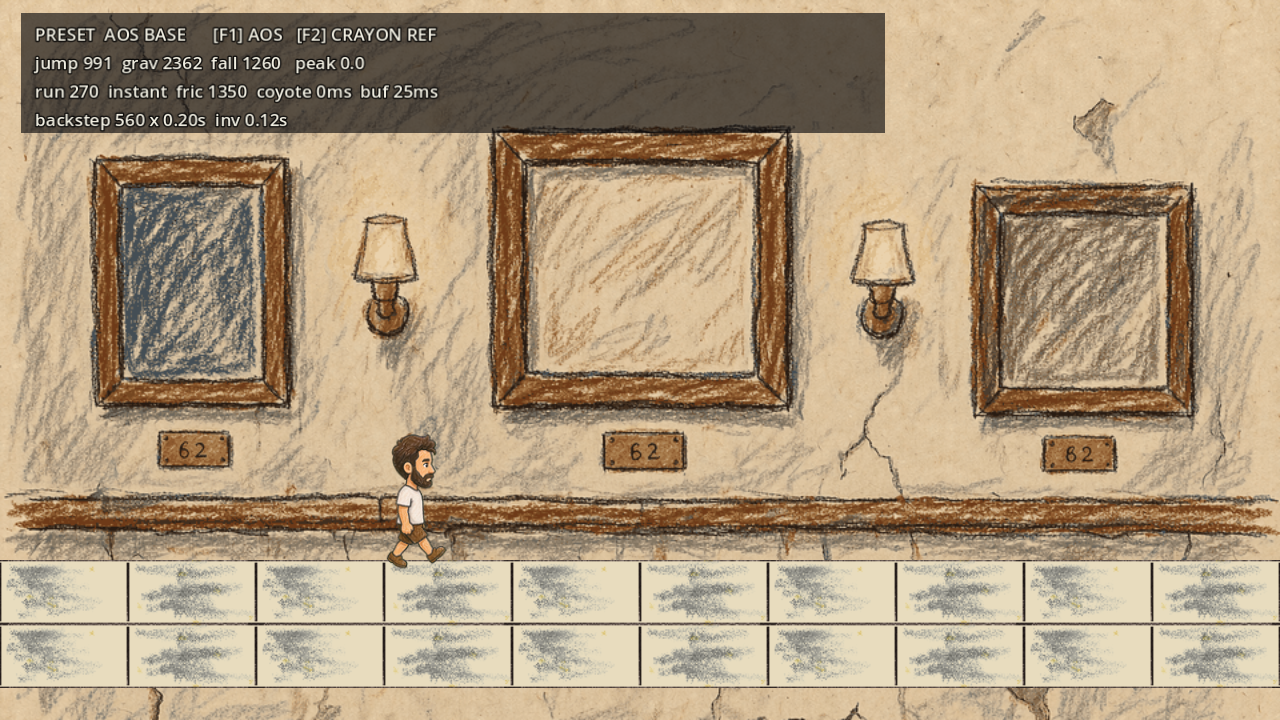
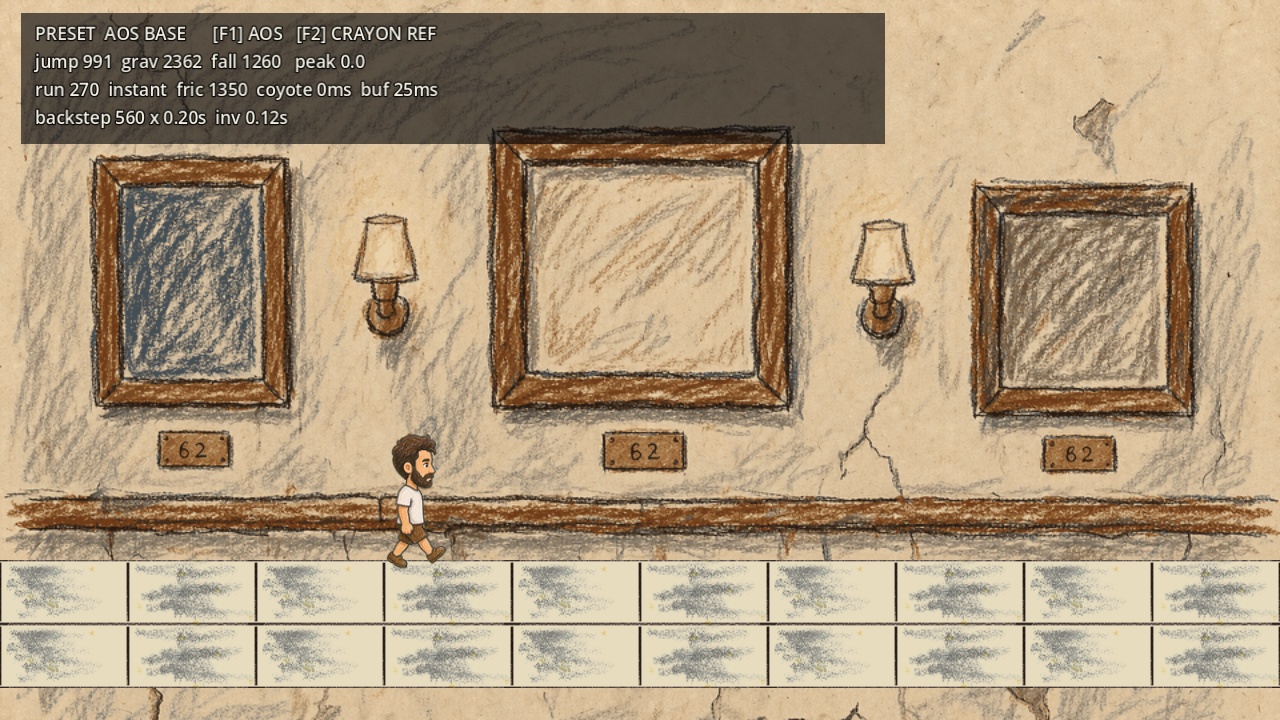
build(godot): 引擎版本定版 4.7.2-stable，从 4.4.1 升级并用测试把版本锁死
白哥：「Godot 版本要定下来」。之前是"规范 4.7 / 工程 4.4"的双口径，
每条尺寸结论都要额外标注在哪个版本有效，成本持续、收益为零。

定版：Godot 4.7.2-stable（build ed1daf0bf），GL Compatibility，120Hz 物理，
linear 过滤，960×540。project.godot 的 config/features 改 4.4 → 4.7。

五条理由（写进 docs/gdd/07 §9.1）
1 与美术规范验证环境对齐（ART_GUIDE 的来源工程就是 4.7.2，G1–G5 全在 4.7.2 验的）
2 4.4 已 EOL：4.7.2 是当前 stable 最新（2026-08-18，full support），
  4.4.1 停在 2025-03，4.8 还在 beta 4
3 4.7 有 VirtualJoystick，4.4 没有 —— 本机 ClassDB 实测。这条直接对应决定 #4
  手机触屏优先：死区/多点触控/缩放/滑出边界不必自己调，省掉的是一整类手机才复现的 bug
4 实测零回归
5 4.7 的 Android 导出工具链是稳定的；4.4 那套 AGP/NDK 已落后

升级实测（§9.2，全过）
- feel_smoke 203.9 / 270.0 / 56.1 px —— 与 4.4.1 逐位相同
- combat_smoke（战斗组件 / 存档 / 坏档拒绝）、preset_key（F1/F2）全 PASS
- 沸腾线 shader 三条判据 PASS：平坦区 0.28 < 1.0、边缘 3.80 > 1.5、边缘纯黑 0%
- 窗口渲染截图 1280×720，角色位置 (317.0, 419.9253) 与 4.4.1 完全相同
- 同一帧截图逐像素比对：差 >2/255 的 3.30%，**100% 落在 HUD 面板矩形内**，
  画面其余部分逐像素完全相同（max diff = 0）。差异来自 Label 字形抗锯齿/hinting，
  不是场景或渲染管线。证据：shots/godot_4.4_vs_4.7.png（右栏标了 HUD 框）
- .import 全量重导入，新增 compress/uastc_level、process/channel_remap 等字段，
  纯新增无行为变化（compress/mode=0 / mipmaps off / fix_alpha_border 均未变）

新增 tests/env_check.gd（8 项断言）
- 断言 major / minor / build 前缀 / 120Hz / gl_compatibility / linear / 960×540
- **patch 升级也会红**，这是刻意的：升级引擎是个"决定"，不该因为随手装了个新版就发生
- 反向验证过：故意用 4.4.1 跑，minor 与 build 两项红，并提示正确命令

改
- docs/gdd/07 §9 重写为「版本定版 + 跨引擎口径」，9.1 定版/理由/不选别的/守卫，
  9.2 升级实测表，9.3 原跨引擎表（把"来源 4.7 本项目 4.4"改为已对齐，
  但保留"G1–G5 不能直接搬"——原因是资产没接进来，与引擎无关）
- godot/README：标题 4.4 → 4.7.2，加定版横幅，命令全部换 4.7.2，跑测试第 0 步加 env_check
[…]

Changed region(s): [[0.0, 0.0306, 0.6875, 0.2139]]

diff --git a/docs/gdd/07_MVP与里程碑.md b/docs/gdd/07_MVP与里程碑.md
@@ -114,8 +114,9 @@
 **一张都没接**。所以美术缺口不是"0 张"，是**接入 41 张 + 重做若干张**两件事。
 
 **为什么 G0–G5 全过也救不了这个 0**：那套门禁验的是"**资产本身合格**"（风格、尺寸、
-抠图边缘），而且是在**来源工程（Godot 4.7）**里验的。本项目 `godot/` 跑 **4.4**，
-导入设置与缩放链没在本项目复验过。但更根本的原因是——**一张都还没接进渲染**。
+抠图边缘），而且是在**来源工程**里验的。本项目 `godot/` 已于 2026-11-26 升到同一版本
+（4.7.2，`§9.1`），但那套门禁**验的是图和来源工程，不是本项目**——本项目的缩放链、
+节点层级、显示尺寸都还没对着真资产验过。更根本的原因是——**一张都还没接进渲染**。
 门禁过关证明"图是好的"，不等于"图用上了"。
 
 > 这张表与 `art/ART_GUIDE.md §12.3` 不重复：那边判"这张图形式上行不行"（尺寸/形态适配），
@@ -149,7 +150,7 @@
 | 2 | 顶面 / 侧面 / **转角**连接正常（转角不能靠拉伸补） |
 | 3 | 碰撞形状与视觉边缘一致（脚不能陷进石头里，也不能悬空 3px） |
 | 4 | 不同地形组合后**无意外空洞** |
-| 5 | **两端都验**：Canvas 原型按 9×8 与 48px 两种比例看一次，**Godot 4.4 实机**按导入后的实际显示尺寸再看一次，都要保持蜡笔颗粒。糊成色块不算过 |
+| 5 | **Godot 4.7.2 实机为主判据**：按导入后的实际显示尺寸（1/6 显示 ≈ 9×8，以及 48px 整格）各看一次，都要保持蜡笔颗粒，糊成色块不算过。Canvas 基线只对照一次，确认没退化 |
 
 > 第 5 条前后写错过两次：原写"Godot 中缩放"，后来一度改成"只看 Canvas 实机"——
 > **两个都不完整**。2026-11-26 起 **Godot 是唯一开发主线**（`§10`），
@@ -298,7 +299,91 @@ README 说"用哪条命令做"。**
 4. **T-纸团 / T-折痕体**两个验证任务（可与 1、2 并行）
 5. **存档地基**：按 `08 §2` 把写盘点接上，再进 P1——**存档不是收尾工作，越早接越省事**
 
-## 9. 引擎口径：哪些数字跨引擎有效
+## 9. 引擎口径：版本定版 + 哪些数字跨引擎有效
+
+### 9.1 引擎定版（2026-11-26）
+
+| 项 | 定值 | 怎么锁 |
+|---|---|---|
+| 版本 | **Godot 4.7.2-stable** | `project.godot` 的 `config/features` = `"4.7"` |
+| 构建 | `ed1daf0bf` | `tests/env_check.gd` 断言 build 前缀 |
+| 渲染后端 | `gl_compatibility` | 同上（手机兼容性优先，不上 Vulkan） |
+| 物理步长 | **120 Hz** | 同上（手感数字的前提，见下） |
+| 纹理过滤 | **linear**（`1`） | 同上（蜡笔是连续色调，nearest 会出锯齿） |
+| 逻辑分辨率 | 960×540 | 同上 |
+| 本机地址 | `E:/godot/Godot_v4.7.2-stable_win64.exe` | 唯一入口；4.4.1 留着只作历史对照，**不要用来打开工程** |
+
+**升级动作**：4.4.1 → 4.7.2（2026-11-26）。`godot/` 全量重新导入，`.import`
+新增 `compress/uastc_level`、`process/channel_remap/*` 等字段——**纯新增，无行为变化**
+（`compress/mode=0` 无损、`mipmaps/generate=false`、`fix_alpha_border=true` 均未变）。
+
+#### 为什么定 4.7.2
+
+**① 与美术规范的验证环境对齐（主要理由）。** `art/ART_GUIDE.md` 头部写明来源工程是
+**4.7.2-stable**，抠图与尺寸链全部在 4.7.2 复验通过（G1–G5）。留 4.4 就是长期维护
+"规范 4.7 / 工程 4.4"的双口径——每一条尺寸结论都要额外标注"在哪个版本有效"，
+这个成本是持续的，收益为零。
+
+**② 4.4 已经 EOL。** 官方支持策略只维护各分支最新 patch：**4.7.2 是当前 stable 最新版
+（2026-08-18 发布，full support）**，4.4.1 停在 2025-03、已 end-of-life，4.8 还在 beta 4。
+留在 4.4 意味着接下来的 bug 与平台适配修复都拿不到。
+
+**③ 4.7 有 `VirtualJoystick`，4.4 没有——这条直接对应手机触屏优先（决定 #4）。**
+本机实测（`ClassDB.class_exists`）：
+
+| 类 | 4.4.1 | 4.7.2 |
+|---|---|---|
+| `VirtualJoystick` | ❌ 不存在 | ✅ 存在 |
+| `TouchScreenButton` | ✅ | ✅ |
+| `TileMapLayer` | ✅ | ✅ |
+
+自己写摇杆意味着死区、多点触控、随窗口缩放、手指滑出边界这些边界条件全得手调一遍。
+**第一方节点能省掉的不是代码量，是一整类"手机上才复现"的 bug。**
+
+**④ 实测零回归**（`§9.2` 全表）。
+
+**⑤ 导出链。** 手机是首发平台（`§10`），4.7 带稳定的 Android 导出工具链，
+4.4 那套的 AGP / NDK 组合已经落后；留在 4.4 等于给打包埋一个"必须先升级"的坑。
+
+#### 为什么不选别的
+
+| 版本 | 不选的理由 |
+|---|---|
+| 4.4.1（原版本） | 已 EOL；且与美术规范的验证环境差一个 minor（见 ①②） |
+| 4.5 / 4.6 | 停在旧分支没有收益；本机未装，引入第三口径只会多一处要维护 |
+| 4.7.0 / 4.7.1 | 4.7 分支只支持最新 patch，旧 patch 不修 bug；4.7.2 才是该分支的受支持版本 |
+| 4.8 / dev / rc | 4.8 仍在 beta 4，**非 stable**。玩法都还没验证完，不承担引擎不稳定的风险 |
+
+#### 怎么防止被悄悄换掉
+
+`tests/env_check.gd` —— 8 项断言，跑错版本直接红：
+
+```bash
+E:/godot/Godot_v4.7.2-stable_win64_console.exe --headless --path godot --script res://tests/env_check.gd
+```
+
+> 连 **patch 升级也会红**，这是刻意的。升级引擎是个"决定"，不该因为随手装了个新版
+> 就悄悄发生。真要升，改 `EXPECT_BUILD` 并重跑 `feel_smoke` 对账，把新数值写进 `FEEL_TABLE`。
+
+### 9.2 升级实测（4.4.1 → 4.7.2，2026-11-26）
+
+| 项 | 4.4.1 | 4.7.2 | 判定 |
+|---|---|---|---|
+| 满跳高度 | 203.9 px | **203.9 px** | ✅ 一致 |
+| 水平速度 | 270.0 px/s | **270.0 px/s** | ✅ 一致 |
+| 轻点跳 | 56.1 px | **56.1 px** | ✅ 一致 |
+| `feel_smoke` | PASS | **PASS** | ✅ |
+| `combat_smoke`（战斗组件 + 存档 + 坏档拒绝） | PASS | **PASS** | ✅ |
+| `preset_key`（F1/F2 切换） | PASS | **PASS** | ✅ |
+| 沸腾线 shader | 三条判据 PASS | **三条判据 PASS**（平坦区 0.28 < 1.0，边缘 3.80 > 1.5，纯黑 0%） | ✅ |
+| 窗口渲染截图 | 1280×720 | **1280×720，角色位置与速度完全相同** | ✅ |
+
+**唯一可见差异：HUD 字体栅格化。** 同场景同帧数截图对比，`差>2/255` 的像素 3.30%，
+**100% 落在 HUD 面板矩形内；画面其余部分逐像素完全相同（最大差 0）**。
+成因是 Label 字形的抗锯齿/hinting 在两个版本间有差异，不是场景或渲染管线变了。
+证据图：`shots/godot_4.4_vs_4.7.png`（左 4.4 / 中 4.7 / 右差异放大 6 倍）。
+
+### 9.3 哪些数字跨引擎有效
 
 **2026-11-26 定：Godot 是唯一开发主线**（`§10`）。`src/` 冻结为行为基线，
 不再演进。读 §3、§4 的验收条目时对照这张表，别把基线实现细节当设计规格。
@@ -307,7 +392,7 @@ README 说"用哪条命令做"。**
 |---|---|---|
 | **设计规格** | `TILE=48`、单跳 204px、一房 30–50 敌累计、同屏 ≤8、房宽 3–6 屏 | ✅ 逻辑规格，Godot 版必须一致 |
 | **手感数据** | 满跳 203.9px、滞空 917ms、地面 270px/s | ✅ **已在 Godot 标定**。注意初速不同：web `971.3` vs Godot `991.0`，因为积分次序不同（`FEEL_TABLE` 记的是结果，不是初速） |
-| **验收结论** | 美术尺寸链、场景集成 | ⚠ 来源工程 Godot **4.7**，本项目 **4.4**，需在本项目复验一次 |
+| **验收结论** | 美术尺寸链、场景集成 | ✅ 两边现在都是 **4.7.2**（`§9.1`）。但来源工程的 G1–G5 仍不能直接搬——**资产没接进来就谈不上验收**（`§3.1`） |
 | **基线实现** | `localStorage`、`requestAnimationFrame`、`build.py` 内联 | 🔴 只读参照，**不再作为实现依据** |
 | **Godot 实现** | `FileAccess` / `user://`、120Hz 物理步、`move_and_slide`、shader | ✅ **唯一实现口径** |
 
@@ -315,9 +400,9 @@ README 说"用哪条命令做"。**
 存储介质**只保留 Godot 一套**——`user://save.json` + `save.bak.json`。
 原型那套 `localStorage` 只作基线对照，不实现。
 
-> 待办：本项目 `godot/` 是 **4.4**，来源美术规范是 **4.7**。本机两个版本都装了
-> （`E:/godot/` 下有 4.4.1 与 4.7.2）。**升级到 4.7 再复验一次尺寸链**，
-> 比长期维持"规范 4.7 / 工程 4.4"的双口径省事。
+> 版本双口径问题已解决（2026-11-26 升级到 4.7.2，`§9.1`）。**但"复验尺寸链"这件事没做**——
+> 它要等资产真正接进 `godot/` 才有对象可验（`§3.1`，当前"已通过游戏内验收"仍是 0 张）。
+> 届时按 `§3.2.1` 五条 + `§4` 的 A/B/C/D 组一起过。
 
 ---
 
@@ -340,10 +425,10 @@ README 说"用哪条命令做"。**
 
 | 项 | 现状 | 影响 |
 |---|---|---|
-| **测试覆盖** | web **424 项** → godot **36 项**（feel_smoke 7 + combat_smoke 23 + preset_key 6） | 迁移期"改坏了不知道"。这是最大风险 |
+| **测试覆盖** | web **424 项** → godot **44 项**（env_check 8 + feel_smoke 7 + combat_smoke 23 + preset_key 6） | 迁移期"改坏了不知道"。这是最大风险 |
 | **可玩性** | Godot 缺相机 / 多房间 / 攻击接线 / 敌人 | **短期内没有完整可玩的版本** |
 | **截图验收** | headless 是 dummy 渲染器，**出不了图** | 视觉验收必须带窗口跑，不能全自动 |
-| **美术复验** | 尺寸链在来源 4.7 上验的，本项目 4.4 | 要复验一次，或先升级到 4.7 |
+| **美术复验** | 引擎版本已对齐（4.7.2，`§9.1`），但尺寸链**没在接真资产后复验过** | 接资产时按 `§3.2.1` 五条一起验，别跳过 |
 
 ### 10.3 顺序（第 0 步不做完，不要开新系统）
 

diff --git a/godot/README.md b/godot/README.md
@@ -1,9 +1,14 @@
-# Godot 4.4 工程 · 二向箔
+# Godot 4.7.2 工程 · 二向箔
 
 **唯一开发主线**（2026-11-26 白哥定）。所有新功能只写这里。
 `../src/`（web 原型）已**冻结为行为基线**，不再演进——它的 424 项断言与手感标定值是这边的对照物。
 
-> 为什么转过来、迁移顺序、代价（测试覆盖 424 → 36）：`../docs/gdd/07 §10`。
+> **引擎版本已定版：Godot 4.7.2-stable（build `ed1daf0bf`）**，2026-11-26 从 4.4.1 升级。
+> 与美术规范的验证环境（`art/ART_GUIDE.md` 头部）对齐，不再维护"规范 4.7 / 工程 4.4"的双口径。
+> 定版理由、升级实测、拒绝其他版本的理由：`../docs/gdd/07 §9`。跑错版本会被
+> `tests/env_check.gd` 拦住——**别用别的版本打开这个工程**，手感数字会静默失准。
+
+> 为什么转过来、迁移顺序、代价（测试覆盖 424 → 44）：`../docs/gdd/07 §10`。
 
 ## 怎么打开
 
@@ -13,34 +18,37 @@
 E:\IdentityCard\game-soulkeep\godot\
 ```
 
-本机编辑器：`E:\godot\Godot_v4.4.1-stable_win64.exe`
+本机编辑器：`E:\godot\Godot_v4.7.2-stable_win64.exe`
 
 > 仓库根目录没有 `project.godot`，Godot 认不出来——那不是配置问题，是两套工程。
 
 ## 跑
 
 ```bash
+# 0. 先验引擎对不对（2 秒，跑错版本后面全是白测）
+"E:/godot/Godot_v4.7.2-stable_win64_console.exe" --headless --path godot --script res://tests/env_check.gd
+
 # 直接玩
-"E:/godot/Godot_v4.4.1-stable_win64.exe" --path godot
+"E:/godot/Godot_v4.7.2-stable_win64.exe" --path godot
 
 # 手感验证（无头，量跳高/速度，跟 web 基线对账）
-"E:/godot/Godot_v4.4.1-stable_win64_console.exe" --headless --path godot --script res://tests/feel_smoke.gd
+"E:/godot/Godot_v4.7.2-stable_win64_console.exe" --headless --path godot --script res://tests/feel_smoke.gd
 
 # 两套预设实测对照（满跳 / 轻点跳 / 加速帧数 / 翻滚位移）
-"E:/godot/Godot_v4.4.1-stable_win64_console.exe" --headless --path godot --script res://tests/feel_compare.gd
+"E:/godot/Godot_v4.7.2-stable_win64_console.exe" --headless --path godot --script res://tests/feel_compare.gd
 
 # F1 / F2 切换链路是否真的通
-"E:/godot/Godot_v4.4.1-stable_win64_console.exe" --headless --path godot --script res://tests/preset_key.gd
+"E:/godot/Godot_v4.7.2-stable_win64_console.exe" --headless --path godot --script res://tests/preset_key.gd
 
 # 战斗组件 + 存档（无头）
-"E:/godot/Godot_v4.4.1-stable_win64_console.exe" --headless --path godot --script res://tests/combat_smoke.gd
+"E:/godot/Godot_v4.7.2-stable_win64_console.exe" --headless --path godot --script res://tests/combat_smoke.gd
 
 # 沸腾线 shader：先出两帧，再比对（比对脚本是 Python）
-"E:/godot/Godot_v4.4.1-stable_win64_console.exe" --path godot --script res://tests/boil_shot.gd
+"E:/godot/Godot_v4.7.2-stable_win64_console.exe" --path godot --script res://tests/boil_shot.gd
 python godot/tests/boil_check.py
 
 # 渲染快照（必须带窗口，headless 是 dummy 渲染器出不了图）
-"E:/godot/Godot_v4.4.1-stable_win64_console.exe" --path godot --script res://tests/shot.gd
+"E:/godot/Godot_v4.7.2-stable_win64_console.exe" --path godot --script res://tests/shot.gd
 ```
 
 ## 当前完成度
@@ -48,6 +56,7 @@ python godot/tests/boil_check.py
 | 模块 | 状态 |
 |---|---|
 | 工程骨架 / 分辨率 960×540 / 120Hz 物理 | ✅ |
+| **引擎版本定版 4.7.2 + 守卫测试** | ✅ `tests/env_check.gd` 8 项断言，跑错版本直接红 |
 | 玩家：跑 / 摩擦 / 跳 / 二段跳 / 顶点滞空 / 松手切断 | ✅ 手感已标定 |
 | 两套手感预设：F1 aos（定版）/ F2 crayon（参考） | ✅ 可热切换，HUD 显示实测峰值 |
 | 翻滚 / 后跃（aos=后跃、crayon=前滚） | ✅ 可玩，无敌帧未接 Hurtbox |

diff --git a/INDEX.md b/INDEX.md
@@ -40,9 +40,9 @@
 | `art/prompts/style_anchor.py` | **七层提示词锚点，唯一真源**（11-26 建）：L1 媒介 / L2 笔触 / L3 可读 / L3.5 朝向 / L3.6 投影 / L4 色板 / L5 禁区 + 底色（工序参数）+ 5 个 profile。`--check` 与定版模板对账，`--budget` 卡 2200 字符。理由与六条实测在 `STYLE_LOCK §L0.5` | 🔴 LEGACY |
 | `art/prompts/sprite_prompt.py` | **出图唯一入口**：骨架锁死在 `sprite_template.txt`，只允许改四处背景句；10 状态配置 + 帧数 + fps | 🔴 LEGACY |
 | `art/tools/crayon.py` | 受约束的蜡笔笔刷原语（stroke/fill/outline/hatch/speck），只收 12 色板名 + 有限笔宽。**当前零调用者**，仅作机制存档，见 `STYLE_LOCK §L11.5` | 🟠 存档 |
-| ⭐ `godot/` | **唯一开发主线（2026-11-26 定）**：所有新功能只写这里。玩家移动/跳跃/5 状态动画 + 战斗组件 + WorldState 存档 + 沸腾线 shader + 单屏测试房。**缺相机/多房间/攻击接线/敌人**（`docs/gdd/07 §10.3` 第 0 步）。用 Godot 打开这个子目录，不是仓库根 | 🟠 主线 |
+| ⭐ `godot/` | **唯一开发主线（2026-11-26 定）**，引擎锁定 **Godot 4.7.2-stable**（`tests/env_check.gd` 守卫）：所有新功能只写这里。玩家移动/跳跃/5 状态动画 + 战斗组件 + WorldState 存档 + 沸腾线 shader + 单屏测试房。**缺相机/多房间/攻击接线/敌人**（`docs/gdd/07 §10.3` 第 0 步）。用 Godot 打开这个子目录，不是仓库根 | 🟠 主线 |
 | 🔴 `src/` | **冻结的 web 基线**：唯一完整可玩版本（13 套回归 + 424 项断言），不再加功能。归档条件见 `docs/gdd/07 §10.4` | 🔴 冻结 |
-| `godot/README.md` | Godot 工程说明：打开方式、手感标定记录、资产同步、渲染设置、移植顺序 | 🟢 现行 |
+| `godot/README.md` | Godot 工程说明：打开方式、**版本定版与守卫**、手感标定记录、资产同步、渲染设置、移植顺序 | 🟢 现行 |
 | `docs/ref/OTHERS_GDD_REVIEW.md` | 别人那份 GDD/TDD 的逐条核对：可吸收 / 照抄会炸（9 处）/ 不适用；**§6 说明它的数值已抄成 `F2` 对照预设的用途**。再收到同类文档先看这份 | 🟢 现行 |
 | `art/tools/tile_from_gen.py` | **瓦片切片**（11-26 起）：洋红底素材板 → 洋红键 → 连通域分行 → 每块归一化到 54×48（保持比例、贴底、居中）→ 平铺预览。用法见 `ART_SKILLS §6`，配方见 `ART_PIPELINE §4.5` | 🔴 LEGACY |
 | `art/tools/pick_tiles.py` | **选砖**：从 12~16 块里按贪心最大最小距离挑 6 块 → `wall_0..5.png`。不许"取前 6 张" | 🔴 LEGACY |

diff --git a/README.md b/README.md
@@ -14,7 +14,7 @@
 | | `godot/` | `src/` + `build.py` |
 |---|---|---|
 | **定位** | ⭐ **唯一开发主线**，所有新功能写这里 | 🔴 **冻结基线**，只做行为参照 |
-| **形态** | Godot 4.4.1 工程 | web 原型：纯 HTML5 Canvas 2D |
+| **形态** | **Godot 4.7.2** 工程（版本已定版，见 `docs/gdd/07 §9`） | web 原型：纯 HTML5 Canvas 2D |
 | **为什么留着** | — | 424 项断言 + 13 套回归的期望值、手感标定值都来自它 |
 | **状态** | 骨架完成，手感已标定（满跳 203.9px） | 功能最全，13 套回归全绿，但不再演进 |
 | **怎么跑** | 用 Godot 打开 **`godot/` 子目录** | 双击 `SoulKeep.html` |
@@ -22,7 +22,7 @@
 > **用 Godot 打开仓库根目录必然失败** —— 根目录没有 `project.godot`，
 > 工程根是 `godot/` 子目录。详见 `godot/README.md`。
 >
-> **为什么转到 Godot**、迁移顺序与代价（测试覆盖会从 424 项掉到 36 项）：`docs/gdd/07 §10`。
+> **为什么转到 Godot**、迁移顺序与代价（测试覆盖会从 424 项掉到 44 项）：`docs/gdd/07 §10`。
 > 历史：`docs/ref/AUDIT_001_DVF.md` §0 第 3 条当初建议"先验证机制再移植"，机制已验完。
 
 ## 玩

diff --git a/art/ART_GUIDE.md b/art/ART_GUIDE.md
@@ -547,10 +547,18 @@ E01–E04 与 G5 已全部通过（G1–G5 PASS，生产准入已开放），当
 
 ---
 
-## 12. 本项目适配（Canvas 2D · 2026-11-26 移植时新增）
+## 12. 本项目适配（2026-11-26 移植时新增）
 
 > 本章只解决「同一套规范换引擎怎么落地」，**不修改 §1–§11 的任何风格定义与门禁判据**。
 > 若本章与 §1–§11 冲突，以 §1–§11 为准，本章按错误处理并修正。
+>
+> **2026-11-26 更正**：本章初稿按「本项目是 Canvas 2D」写的，当天已改定 **Godot 为唯一
+> 开发主线**（`docs/gdd/07 §10`），且引擎已升到与来源工程同一版本 **4.7.2**（`07 §9.1`）。
+> 因此：
+> - **§12.1 的「Canvas 等价做法」一列降为基线对照**，不再是本项目做法。本项目直接按
+>   §1–§11 的 Godot 条款执行，不再需要等价翻译。
+> - **§12.2 尺寸换算、§12.3 资产可用性、§12.4 主角变更仍然有效**——它们算的是源图
+>   帧框到游戏显示尺寸的比例（340 → 128，0.51×），与引擎无关。
 
 ### 12.1 引擎条款等价表
 

diff --git a/DEV_FLOW.md b/DEV_FLOW.md
@@ -97,14 +97,17 @@
 
 ### 4.2 · Godot（主线）
 
-**改 `godot/` 下任何东西都跑。** 现有 3 套共 36 项判定，覆盖远少于基线（424 项），
+**改 `godot/` 下任何东西都跑。** 现有 4 套共 44 项判定，覆盖远少于基线（424 项），
 所以**手感类改动必须同时看实机截图**，不能只信无头测试：
 
 ```bash
-G="/e/godot/Godot_v4.4.1-stable_win64_console.exe"
+G="/e/godot/Godot_v4.7.2-stable_win64_console.exe"     # 版本定版，别换别的
+"$G" --headless --path godot --script res://tests/env_check.gd     # 引擎版本/物理步/过滤
 "$G" --headless --path godot --script res://tests/feel_smoke.gd    # 手感
 "$G" --headless --path godot --script res://tests/combat_smoke.gd  # 战斗组件 + 存档
 ```
+
+`env_check` 红了先修环境，别继续测——满跳数值本身依赖 120Hz 物理步与 4.7 的积分行为。
 
 要求：满跳 `203.9 ± 8 px`、水平 `270 ± 20 px/s`、松手后 `vx` 归零、轻点跳 `≤ 80 px`。
 **改跳跃/重力数值必须重跑**，并把新标定值同步到 `godot/README.md` 的参数表。

diff --git a/PROJECT_MAP.md b/PROJECT_MAP.md
@@ -10,6 +10,8 @@
 
 > **技术形态（2026-11-26 白哥定版）：Godot 是唯一开发主线。**
 > - `godot/` → **唯一主线**。所有新功能只写这里。用 Godot 打开 **`godot/` 子目录**，不是仓库根
+> - **引擎锁定 Godot 4.7.2-stable（build `ed1daf0bf`）**，本机 `E:/godot/Godot_v4.7.2-stable_win64.exe`。
+>   跑错版本会被 `godot/tests/env_check.gd` 拦住；定版理由见 `docs/gdd/07 §9`
 > - `src/` + `build.py` → **冻结的 web 基线**。不再加功能，只作为「完整可玩的行为参照」——
 >   手感标定值、424 项断言的期望值都来自它
 >

diff --git a/ART_SKILLS.md b/ART_SKILLS.md
@@ -634,7 +634,7 @@ node dc_feel_check.js     # 28 项：取消窗口、连打 CD
 **Godot（`godot/`）**
 
 ```bash
-G="E:/godot/Godot_v4.4.1-stable_win64_console.exe"
+G="E:/godot/Godot_v4.7.2-stable_win64_console.exe"   # 版本定版见 docs/gdd/07 §9
 "$G" --headless --path godot --script res://tests/feel_smoke.gd      # 手感标定
 "$G" --headless --path godot --script res://tests/feel_compare.gd    # aos vs crayon 对照
 "$G" --headless --path godot --script res://tests/preset_key.gd      # F1/F2 切换链路
